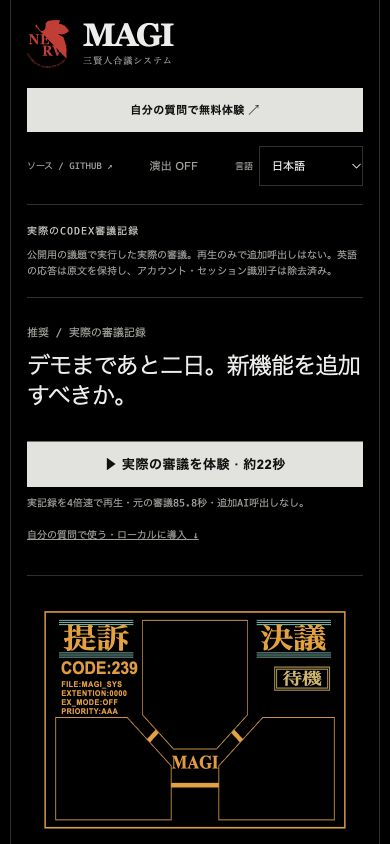
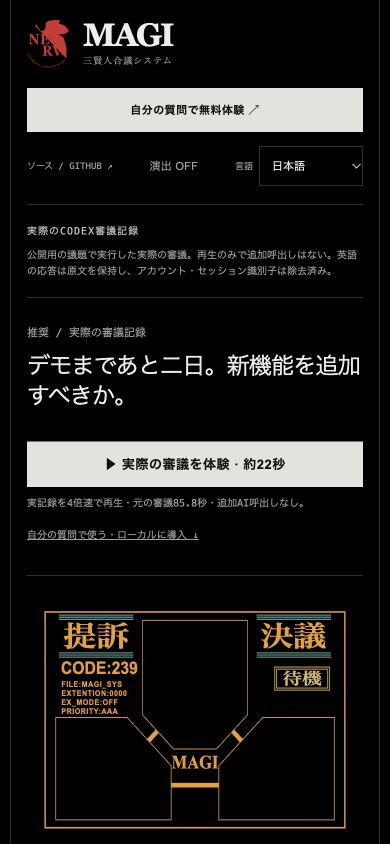
Keep Japanese headers clear of the rules in both scenes

Changed region(s): [[0.6462, 0.7085, 0.8615, 0.7701], [0.1538, 0.7085, 0.3385, 0.7701]]

diff --git a/tests/demo/demo.spec.ts b/tests/demo/demo.spec.ts
@@ -57,6 +57,50 @@ test('static demo defaults to Japanese, never calls a backend and keeps Japanese
   expect(errors).toEqual([]);
 });
 
+test('Japanese headers stay clear of the cyan rules in standby and diagnostic scenes with fallback fonts', async ({
+  page,
+}) => {
+  await page.goto('./?lang=ja&example=club');
+  async function checkClearance() {
+    for (const family of ['', 'serif', 'sans-serif']) {
+      await page.locator('.screen-kanji').evaluate((element: SVGElement, font) => {
+        element.style.fontFamily = font;
+      }, family);
+      const gaps = await page.locator('.magi-display').evaluate((element) => {
+        const scale = element.getBoundingClientRect().height / 480;
+        const top = element
+          .querySelector('[data-testid="header-rules-top"]')!
+          .getBoundingClientRect();
+        const bottom = element
+          .querySelector('[data-testid="header-rules-bottom"]')!
+          .getBoundingClientRect();
+        return Array.from(element.querySelectorAll('.screen-kanji text')).map((label) => {
+          const box = label.getBoundingClientRect();
+          // Include half of the two-unit rule stroke in the occupied area.
+          return {
+            above: (box.top - top.bottom) / scale - 1,
+            below: (bottom.top - box.bottom) / scale - 1,
+          };
+        });
+      });
+      for (const gap of gaps) {
+        expect(gap.above).toBeGreaterThanOrEqual(2);
+        expect(gap.below).toBeGreaterThanOrEqual(2);
+      }
+    }
+    await page.locator('.screen-kanji').evaluate((element: SVGElement) => {
+      element.style.removeProperty('font-family');
+    });
+  }
+  await checkClearance();
+  await page.getByTestId('demo-start').click();
+  await page.getByTestId('demo-play').click();
+  await page.getByTestId('demo-seek').press('Home');
+  await expect(page.locator('.magi-screen')).toHaveAttribute('data-scene', 'diagnostics');
+  await expect(page.locator('.diagnostic-core')).toHaveCount(3);
+  await checkClearance();
+});
+
 test('examples replay each phase without future opinions and produce approve, deny and no-majority results', async ({
   page,
 }) => {

diff --git a/src/MagiScreen.tsx b/src/MagiScreen.tsx
@@ -73,15 +73,24 @@ export default function MagiScreen({
               <path
                 d={
                   diagnostics
-                    ? 'M67 54H253M67 58H253M67 62H253M67 116H253M67 120H253M67 124H253M453 56H639M453 60H639M453 64H639M453 118H639M453 122H639M453 126H639'
-                    : 'M67 54H223M67 58H223M67 62H223M67 116H223M67 120H223M67 124H223M481 54H637M481 58H637M481 62H637M481 116H637M481 120H637M481 124H637'
+                    ? 'M67 44H253M67 48H253M67 52H253M453 44H639M453 48H639M453 52H639'
+                    : 'M67 44H223M67 48H223M67 52H223M481 44H637M481 48H637M481 52H637'
                 }
+                data-testid="header-rules-top"
+              />
+              <path
+                d={
+                  diagnostics
+                    ? 'M67 116H253M67 120H253M67 124H253M453 116H639M453 120H639M453 124H639'
+                    : 'M67 116H223M67 120H223M67 124H223M481 116H637M481 120H637M481 124H637'
+                }
+                data-testid="header-rules-bottom"
               />
             </g>
             <g className="screen-kanji">
               <text
                 x={diagnostics ? 81 : 76}
-                y="108"
+                y="104"
                 textLength={diagnostics ? 158 : 138}
                 lengthAdjust="spacingAndGlyphs"
               >
@@ -89,7 +98,7 @@ export default function MagiScreen({
               </text>
               <text
                 x={diagnostics ? 469 : 489}
-                y="108"
+                y="104"
                 textLength={diagnostics ? 155 : 138}
                 lengthAdjust="spacingAndGlyphs"
               >

diff --git a/src/QuestionGuide.tsx b/src/QuestionGuide.tsx
@@ -105,9 +105,14 @@ export default function QuestionGuide({
             data-testid={`guide-${topic}`}
             disabled={disabled}
             onClick={() => {
+              const focusAtSelection = document.activeElement;
               updateDraft(questionTemplate(locale, topic));
               setOpen(true);
-              requestAnimationFrame(() => decisionInput.current?.focus());
+              requestAnimationFrame(() => {
+                // Opening the fields must not steal focus from an edit that
+                // began before this animation frame was delivered.
+                if (document.activeElement === focusAtSelection) decisionInput.current?.focus();
+              });
             }}
           >
             {t[topic]}

diff --git a/tests/browser/experience.spec.ts b/tests/browser/experience.spec.ts
@@ -19,6 +19,9 @@ test('question helper saves edits, preserves the main draft, respects its limit 
   await page.locator('#proposal').fill('내가 적은 원래 질문');
   await page.getByTestId('guide-project').click();
   await page.getByTestId('guide-criteria').fill('수면 8시간과 검증 시간을 확보해야 한다.');
+  await expect(page.getByTestId('guide-criteria')).toHaveValue(
+    '수면 8시간과 검증 시간을 확보해야 한다.',
+  );
   await expect(page.locator('#proposal')).toHaveValue('내가 적은 원래 질문');
   await page.reload();
   await expect(page.getByTestId('guide-criteria')).toHaveValue(

diff --git a/src/demo/frame.css b/src/demo/frame.css
@@ -260,6 +260,12 @@
   font-weight: 400;
   line-height: 1.7;
 }
+.demo-shell :is(.answer-details > summary, .answer-sources summary) {
+  color: var(--frame-muted);
+}
+.demo-shell :is(.demo-answer, .demo-inspector):focus {
+  outline-color: #82827b;
+}
 .demo-shell .trial-entry {
   padding: 24px 0;
   border-top: 0;

diff --git a/docs/VERIFICATION.md b/docs/VERIFICATION.md
@@ -8,9 +8,10 @@
 - 무료 할당 소진 3036과 일시적 처리 용량 부족 3040/429를 분리했다. 일시적 혼잡으로 그날 전체 체험을 닫지 않는다. 자동 재시도·유료 전환·다른 제공자로의 대체는 없다. 유료·불명 요금제 차단도 그대로다.
 - 네 언어의 모국어 문체와 인격별 관점 지침을 추가하고, 클라우드에서는 우선순위가 높은 시스템 지침으로 전달한다. 한국어 명사형 요약·존댓말·번역투가 기존 Qwen 모델에서 계속 나오는 것을 실제 비교로 확인해, 무료 사용 가능한 **GLM-4.7-Flash**를 고정 모델로 선택했다. 비추론 모드를 명시하고 추가 번역 호출 없이 최대 13회 호출을 유지한다. 로컬 Codex에도 같은 언어 지침을 적용하되 실제 로컬 모델 호출은 하지 않았다.
 - 실제 표결과 다른 첫 판단, 설명이 없는 한 단어 결론은 최종 보고서로 받아들이지 않는다. 표결에 맞는 언어별 첫 문장과 그 뒤의 설명을 스키마·검증으로 요구한다. 이전 토론의 입장을 현재 최종 반대로 잘못 소개하지 않도록 현재 최종표와 과거 토론을 구분한다. 실패해도 실제 표는 보존한다. 과거 저장 기록·영상의 발언은 수정하지 않는다.
-- 단위·API **56개**, 로컬 화면 **78개**, 공개 화면 **32개**, 총 **166개** 자동 검사를 확인했다. 새 한국어 실제 심의에서 12개 의견과 최종 보고서까지 13회 호출을 완료했고, 온전한 반말 문장과 실제 DENIED 표결에 맞는 답변을 확인했다. 해당 짧은 사례는 공개된 단가로 약 175 Neurons였다. 이후 한국어·영어·중국어·일본어를 각각 실제 13회 호출로 검증해 네 건 모두 12개 의견·최종 보고서를 완료했다. 같은 짧은 상황에서 공개 단가로 추정한 사용량은 약 120~175 Neurons였다. 이는 처리 용량 보장이나 대표 성능 평가가 아니다.
-- 원작 일본어 콘솔, 정면 4:3 화면, 고정 패널과 불규칙 점멸은 변경하지 않았다. 임시 업데이트 자격 증명을 서버 비밀값으로 설치하지 않고 기존 읽기 전용 감시 자격 증명을 보존하도록 배포 절차도 수정했다.
+- 단위·API **56개**, 로컬 화면 **78개**, 공개 화면 **34개**, 총 **168개** 자동 검사를 확인했다. 새 한국어 실제 심의에서 12개 의견과 최종 보고서까지 13회 호출을 완료했고, 온전한 반말 문장과 실제 DENIED 표결에 맞는 답변을 확인했다. 해당 짧은 사례는 공개된 단가로 약 175 Neurons였다. 이후 한국어·영어·중국어·일본어를 각각 실제 13회 호출로 검증해 네 건 모두 12개 의견·최종 보고서를 완료했다. 같은 짧은 상황에서 공개 단가로 추정한 사용량은 약 120~175 Neurons였다. 이는 처리 용량 보장이나 대표 성능 평가가 아니다.
+- 원작 일본어, 정면 4:3 화면, 고정 패널과 불규칙 점멸을 유지한다. 제목의 위쪽 청록색 장식선을 올리고 글자 기준선을 조정해 겹침을 없앴다. 대기·정사각형 진단 화면에서 기본·serif·sans-serif 글꼴의 실제 경계를 측정해 선의 굵기까지 포함한 여백을 검사한다. 임시 업데이트 자격 증명을 서버 비밀값으로 설치하지 않고 기존 읽기 전용 감시 자격 증명을 보존하도록 배포 절차도 수정했다.
 - 공개 화면의 도입 구호·중복 안내를 제거하고 모델·한도·개인정보 설명은 접힌 이용 안내로 옮겼다. 바깥 인터페이스는 Celetix의 흑백·가는 선·여백을 참고해 수정했으며, 해당 사이트의 외부 폰트나 자산은 추가하지 않았다. 기존 재생·영상·공유·질문 도우미·언어 선택 기능을 유지한다. 네 언어의 접힌 안내, 입력 복구, 한도 표시와 모바일 넘침을 공개 화면 검사에서 확인한다.
+- 원격 검사에서 질문 도우미의 빠른 편집·새로고침 검사가 한 번 실패했다. 템플릿 선택 후 지연된 자동 포커스가 이미 시작한 다른 필드 편집을 방해할 수 있어, 포커스가 바뀌지 않았을 때만 이동하도록 보완했다. 데스크톱·모바일 각각 5회, 총 10회 반복 검사로 입력·재로드·원본 질문 보존을 확인했다.
 
 ## 2026-10-29 v1.4.0 무료 클라우드 체험
 

diff --git a/docs/screenshots/README.md b/docs/screenshots/README.md
@@ -2,6 +2,8 @@
 
 `demo-frame-desktop.png` and `demo-frame-mobile.png` show the October 29 public-interface refresh at 1440×1100 and 390×844. They were captured through computer use from the local static demo, with visual effects disabled for a clear still. The featured recording is selected but not playing. No model calls, private questions or third-party reference assets are included. Earlier gallery images below retain their earlier interface styling.
 
+`demo-header-clearance.png` shows the authored club example paused at the start of independent analysis. It documents the spacing between Japanese titles and cyan rules in the diagnostic scene, not a live model response.
+
 The `demo-*.png` images and `share-preview.png` are captured by `npx tsx scripts/capture-demo-assets.ts` from the static public demo on isolated port 5192. Except for the question helper below, they use the actual purpose-made public Codex recording, preserve its original English assessments and answer, and contain no account credentials or private history. Localized question headlines and card summaries are faithful editorial translations. The final-answer capture waits for the completed reveal and focus handoff. The brief of this existing recording is extracted from its saved answer, conditions and disagreement without changing the original. No model calls are made.
 
 `demo-question-guide.png` shows an authored, editable project-question template. It is a browser-only draft, not an executed question or model response.

diff --git a/docs/INTERFACE.md b/docs/INTERFACE.md
@@ -22,6 +22,8 @@ The public demo highlights the actual recording first. A labelled start button a
 
 Each core analyzes the question before seeing the others' assessments. Diagnostic panels remain still. Core states change when recorded responses arrive; blue processing pulses are an interface effect, not a measurement of CPU activity.
 
+The Japanese titles keep a clear gap from the cyan rules in both standby and diagnostic scenes, including fallback fonts. [Diagnostic spacing example](./screenshots/demo-header-clearance.png)
+
 The status below the sequence shows actual responses received in the current stage, such as **2 / 3 · awaiting CASPER-3**. Counts reset for each stage and discussion cycle. Live runs show elapsed time and time since the last received opinion; replays show **recording position**, not a fabricated estimate. During synthesis, the status distinguishes three received final votes from the single report being written.
 
 ![Actual recorded per-stage response status](./screenshots/demo-progress.png)

diff --git a/docs/INTERFACE.ko.md b/docs/INTERFACE.ko.md
@@ -36,6 +36,8 @@
 
 세 코어는 서로의 의견을 보지 않고 별도 세션에서 분석한다. 진단 사각 패널의 위치와 각도는 고정되어 있으며, 응답이 도착한 패널부터 녹색으로 변한다.
 
+제목 위쪽 청록색 선과 글자 기준선을 조정해 대기·진단 화면에서 겹치지 않도록 했다. 대체 글꼴에서도 여백을 검사한다. [진단 화면 간격 예시](./screenshots/demo-header-clearance.png)
+
 진행 단계 아래에는 **현재 단계에서 받은 응답 수 / 3**, 기다리는 인격과 경과 시간을 표시한다. 단계·토론 회차가 바뀌면 해당 단계의 응답만 다시 센다. 실제 실행은 마지막 응답 이후의 시간을, 재생은 기록 시점을 표시한다. 보고서 작성 중에는 세 최종 표의 수신과 종합 답변 작성을 구분한다.
 
 ![실제 공개 기록의 응답 대기 안내](./screenshots/demo-progress.png)
